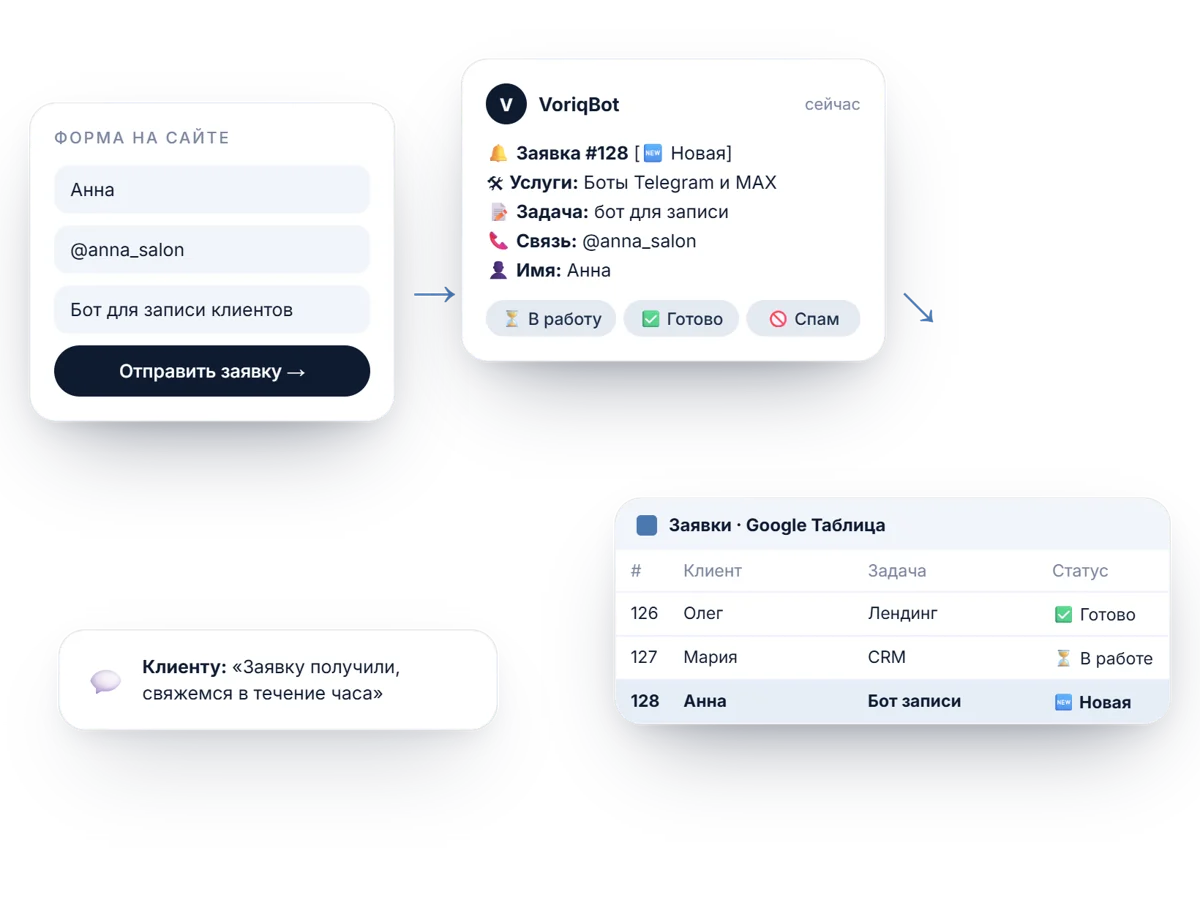
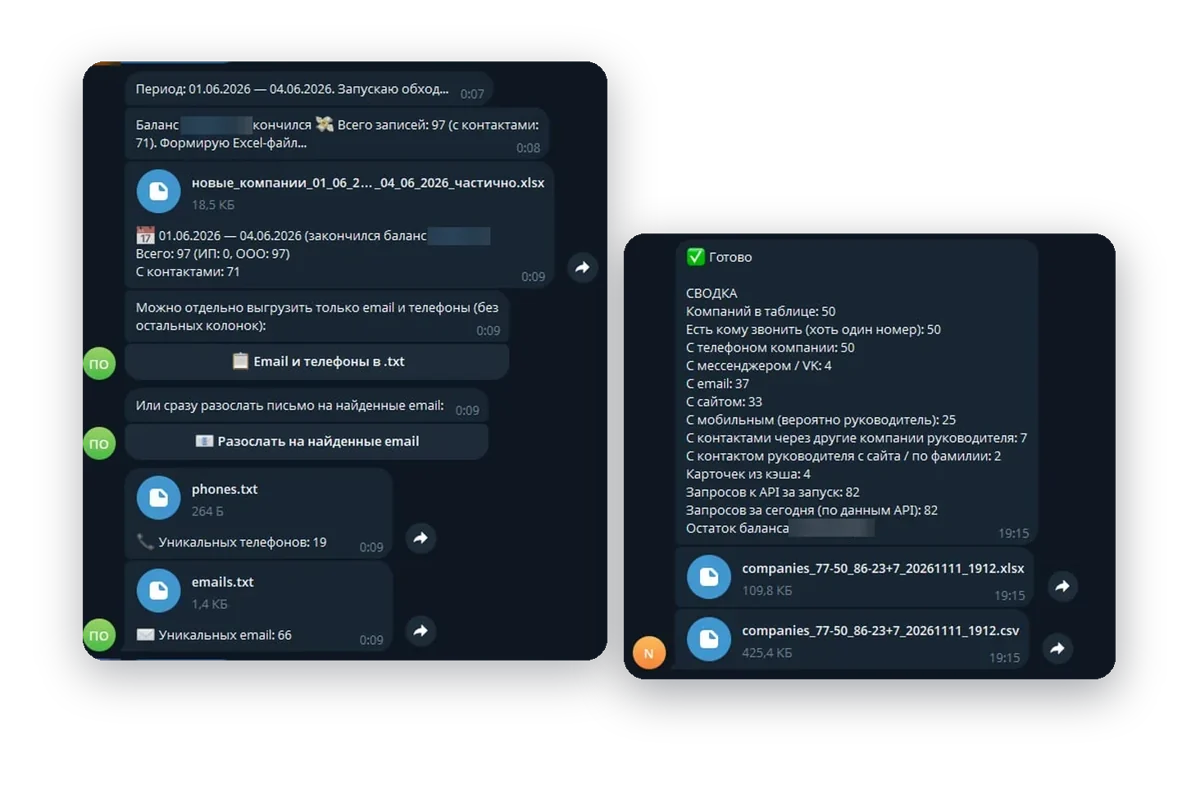
Automation service card: real parser screenshots

diff --git a/404.html b/404.html
@@ -27,7 +27,7 @@
 <link rel="icon" href="/assets/img/favicon-64.png" type="image/png" sizes="64x64">
 <link rel="apple-touch-icon" href="/assets/img/apple-touch-icon.png">
 <link rel="preload" href="/assets/fonts/inter-cyrillic.woff2" as="font" type="font/woff2" crossorigin>
-<link rel="stylesheet" href="/assets/css/style.css?v=b309d9a7">
+<link rel="stylesheet" href="/assets/css/style.css?v=33434da8">
 <script>(function(){var d=document.documentElement;d.classList.add('js');
   if(location.pathname!=='/'&&location.pathname!=='/index.html')return;
   if(!('animate' in Element.prototype))return;
@@ -143,8 +143,8 @@
   <button type="button" id="cookieOk">Понятно</button>
 </div>
 
-<script src="/assets/js/config.js?v=b309d9a7" defer></script>
-<script src="/assets/js/main.js?v=b309d9a7" defer></script>
-<script src="/assets/js/form.js?v=b309d9a7" defer></script>
+<script src="/assets/js/config.js?v=33434da8" defer></script>
+<script src="/assets/js/main.js?v=33434da8" defer></script>
+<script src="/assets/js/form.js?v=33434da8" defer></script>
 </body>
 </html>

diff --git a/avtomatizaciya-biznesa/index.html b/avtomatizaciya-biznesa/index.html
@@ -27,7 +27,7 @@
 <link rel="icon" href="/assets/img/favicon-64.png" type="image/png" sizes="64x64">
 <link rel="apple-touch-icon" href="/assets/img/apple-touch-icon.png">
 <link rel="preload" href="/assets/fonts/inter-cyrillic.woff2" as="font" type="font/woff2" crossorigin>
-<link rel="stylesheet" href="/assets/css/style.css?v=b309d9a7">
+<link rel="stylesheet" href="/assets/css/style.css?v=33434da8">
 <script>(function(){var d=document.documentElement;d.classList.add('js');
   if(location.pathname!=='/'&&location.pathname!=='/index.html')return;
   if(!('animate' in Element.prototype))return;
@@ -195,8 +195,8 @@
   <button type="button" id="cookieOk">Понятно</button>
 </div>
 
-<script src="/assets/js/config.js?v=b309d9a7" defer></script>
-<script src="/assets/js/main.js?v=b309d9a7" defer></script>
-<script src="/assets/js/form.js?v=b309d9a7" defer></script>
+<script src="/assets/js/config.js?v=33434da8" defer></script>
+<script src="/assets/js/main.js?v=33434da8" defer></script>
+<script src="/assets/js/form.js?v=33434da8" defer></script>
 </body>
 </html>

diff --git a/blog/avtomatizaciya-malogo-biznesa/index.html b/blog/avtomatizaciya-malogo-biznesa/index.html
@@ -27,7 +27,7 @@
 <link rel="icon" href="/assets/img/favicon-64.png" type="image/png" sizes="64x64">
 <link rel="apple-touch-icon" href="/assets/img/apple-touch-icon.png">
 <link rel="preload" href="/assets/fonts/inter-cyrillic.woff2" as="font" type="font/woff2" crossorigin>
-<link rel="stylesheet" href="/assets/css/style.css?v=b309d9a7">
+<link rel="stylesheet" href="/assets/css/style.css?v=33434da8">
 <script>(function(){var d=document.documentElement;d.classList.add('js');
   if(location.pathname!=='/'&&location.pathname!=='/index.html')return;
   if(!('animate' in Element.prototype))return;
@@ -176,8 +176,8 @@
   <button type="button" id="cookieOk">Понятно</button>
 </div>
 
-<script src="/assets/js/config.js?v=b309d9a7" defer></script>
-<script src="/assets/js/main.js?v=b309d9a7" defer></script>
-<script src="/assets/js/form.js?v=b309d9a7" defer></script>
+<script src="/assets/js/config.js?v=33434da8" defer></script>
+<script src="/assets/js/main.js?v=33434da8" defer></script>
+<script src="/assets/js/form.js?v=33434da8" defer></script>
 </body>
 </html>

diff --git a/blog/avtomatizaciya-zayavok-sajt-bot-crm/index.html b/blog/avtomatizaciya-zayavok-sajt-bot-crm/index.html
@@ -27,7 +27,7 @@
 <link rel="icon" href="/assets/img/favicon-64.png" type="image/png" sizes="64x64">
 <link rel="apple-touch-icon" href="/assets/img/apple-touch-icon.png">
 <link rel="preload" href="/assets/fonts/inter-cyrillic.woff2" as="font" type="font/woff2" crossorigin>
-<link rel="stylesheet" href="/assets/css/style.css?v=b309d9a7">
+<link rel="stylesheet" href="/assets/css/style.css?v=33434da8">
 <script>(function(){var d=document.documentElement;d.classList.add('js');
   if(location.pathname!=='/'&&location.pathname!=='/index.html')return;
   if(!('animate' in Element.prototype))return;
@@ -173,8 +173,8 @@
   <button type="button" id="cookieOk">Понятно</button>
 </div>
 
-<script src="/assets/js/config.js?v=b309d9a7" defer></script>
-<script src="/assets/js/main.js?v=b309d9a7" defer></script>
-<script src="/assets/js/form.js?v=b309d9a7" defer></script>
+<script src="/assets/js/config.js?v=33434da8" defer></script>
+<script src="/assets/js/main.js?v=33434da8" defer></script>
+<script src="/assets/js/form.js?v=33434da8" defer></script>
 </body>
 </html>

diff --git a/blog/bot-dlya-avtoservisa/index.html b/blog/bot-dlya-avtoservisa/index.html
@@ -27,7 +27,7 @@
 <link rel="icon" href="/assets/img/favicon-64.png" type="image/png" sizes="64x64">
 <link rel="apple-touch-icon" href="/assets/img/apple-touch-icon.png">
 <link rel="preload" href="/assets/fonts/inter-cyrillic.woff2" as="font" type="font/woff2" crossorigin>
-<link rel="stylesheet" href="/assets/css/style.css?v=b309d9a7">
+<link rel="stylesheet" href="/assets/css/style.css?v=33434da8">
 <script>(function(){var d=document.documentElement;d.classList.add('js');
   if(location.pathname!=='/'&&location.pathname!=='/index.html')return;
   if(!('animate' in Element.prototype))return;
@@ -176,8 +176,8 @@
   <button type="button" id="cookieOk">Понятно</button>
 </div>
 
-<script src="/assets/js/config.js?v=b309d9a7" defer></script>
-<script src="/assets/js/main.js?v=b309d9a7" defer></script>
-<script src="/assets/js/form.js?v=b309d9a7" defer></script>
+<script src="/assets/js/config.js?v=33434da8" defer></script>
+<script src="/assets/js/main.js?v=33434da8" defer></script>
+<script src="/assets/js/form.js?v=33434da8" defer></script>
 </body>
 </html>

diff --git a/blog/bot-dlya-salona-krasoty/index.html b/blog/bot-dlya-salona-krasoty/index.html
@@ -27,7 +27,7 @@
 <link rel="icon" href="/assets/img/favicon-64.png" type="image/png" sizes="64x64">
 <link rel="apple-touch-icon" href="/assets/img/apple-touch-icon.png">
 <link rel="preload" href="/assets/fonts/inter-cyrillic.woff2" as="font" type="font/woff2" crossorigin>
-<link rel="stylesheet" href="/assets/css/style.css?v=b309d9a7">
+<link rel="stylesheet" href="/assets/css/style.css?v=33434da8">
 <script>(function(){var d=document.documentElement;d.classList.add('js');
   if(location.pathname!=='/'&&location.pathname!=='/index.html')return;
   if(!('animate' in Element.prototype))return;
@@ -178,8 +178,8 @@
   <button type="button" id="cookieOk">Понятно</button>
 </div>
 
-<script src="/assets/js/config.js?v=b309d9a7" defer></script>
-<script src="/assets/js/main.js?v=b309d9a7" defer></script>
-<script src="/assets/js/form.js?v=b309d9a7" defer></script>
+<script src="/assets/js/config.js?v=33434da8" defer></script>
+<script src="/assets/js/main.js?v=33434da8" defer></script>
+<script src="/assets/js/form.js?v=33434da8" defer></script>
 </body>
 </html>

diff --git a/blog/bot-dlya-zapisi-klientov/index.html b/blog/bot-dlya-zapisi-klientov/index.html
@@ -27,7 +27,7 @@
 <link rel="icon" href="/assets/img/favicon-64.png" type="image/png" sizes="64x64">
 <link rel="apple-touch-icon" href="/assets/img/apple-touch-icon.png">
 <link rel="preload" href="/assets/fonts/inter-cyrillic.woff2" as="font" type="font/woff2" crossorigin>
-<link rel="stylesheet" href="/assets/css/style.css?v=b309d9a7">
+<link rel="stylesheet" href="/assets/css/style.css?v=33434da8">
 <script>(function(){var d=document.documentElement;d.classList.add('js');
   if(location.pathname!=='/'&&location.pathname!=='/index.html')return;
   if(!('animate' in Element.prototype))return;
@@ -174,8 +174,8 @@
   <button type="button" id="cookieOk">Понятно</button>
 </div>
 
-<script src="/assets/js/config.js?v=b309d9a7" defer></script>
-<script src="/assets/js/main.js?v=b309d9a7" defer></script>
-<script src="/assets/js/form.js?v=b309d9a7" defer></script>
+<script src="/assets/js/config.js?v=33434da8" defer></script>
+<script src="/assets/js/main.js?v=33434da8" defer></script>
+<script src="/assets/js/form.js?v=33434da8" defer></script>
 </body>
 </html>

diff --git a/blog/bot-iz-telegram-v-max/index.html b/blog/bot-iz-telegram-v-max/index.html
@@ -27,7 +27,7 @@
 <link rel="icon" href="/assets/img/favicon-64.png" type="image/png" sizes="64x64">
 <link rel="apple-touch-icon" href="/assets/img/apple-touch-icon.png">
 <link rel="preload" href="/assets/fonts/inter-cyrillic.woff2" as="font" type="font/woff2" crossorigin>
-<link rel="stylesheet" href="/assets/css/style.css?v=b309d9a7">
+<link rel="stylesheet" href="/assets/css/style.css?v=33434da8">
 <script>(function(){var d=document.documentElement;d.classList.add('js');
   if(location.pathname!=='/'&&location.pathname!=='/index.html')return;
   if(!('animate' in Element.prototype))return;
@@ -176,8 +176,8 @@
   <button type="button" id="cookieOk">Понятно</button>
 </div>
 
-<script src="/assets/js/config.js?v=b309d9a7" defer></script>
-<script src="/assets/js/main.js?v=b309d9a7" defer></script>
-<script src="/assets/js/form.js?v=b309d9a7" defer></script>
+<script src="/assets/js/config.js?v=33434da8" defer></script>
+<script src="/assets/js/main.js?v=33434da8" defer></script>
+<script src="/assets/js/form.js?v=33434da8" defer></script>
 </body>
 </html>

diff --git a/blog/bot-v-max-dlya-biznesa/index.html b/blog/bot-v-max-dlya-biznesa/index.html
@@ -27,7 +27,7 @@
 <link rel="icon" href="/assets/img/favicon-64.png" type="image/png" sizes="64x64">
 <link rel="apple-touch-icon" href="/assets/img/apple-touch-icon.png">
 <link rel="preload" href="/assets/fonts/inter-cyrillic.woff2" as="font" type="font/woff2" crossorigin>
-<link rel="stylesheet" href="/assets/css/style.css?v=b309d9a7">
+<link rel="stylesheet" href="/assets/css/style.css?v=33434da8">
 <script>(function(){var d=document.documentElement;d.classList.add('js');
   if(location.pathname!=='/'&&location.pathname!=='/index.html')return;
   if(!('animate' in Element.prototype))return;
@@ -176,8 +176,8 @@
   <button type="button" id="cookieOk">Понятно</button>
 </div>
 
-<script src="/assets/js/config.js?v=b309d9a7" defer></script>
-<script src="/assets/js/main.js?v=b309d9a7" defer></script>
-<script src="/assets/js/form.js?v=b309d9a7" defer></script>
+<script src="/assets/js/config.js?v=33434da8" defer></script>
+<script src="/assets/js/main.js?v=33434da8" defer></script>
+<script src="/assets/js/form.js?v=33434da8" defer></script>
 </body>
 </html>

diff --git a/blog/chat-bot-dlya-sajta/index.html b/blog/chat-bot-dlya-sajta/index.html
@@ -27,7 +27,7 @@
 <link rel="icon" href="/assets/img/favicon-64.png" type="image/png" sizes="64x64">
 <link rel="apple-touch-icon" href="/assets/img/apple-touch-icon.png">
 <link rel="preload" href="/assets/fonts/inter-cyrillic.woff2" as="font" type="font/woff2" crossorigin>
-<link rel="stylesheet" href="/assets/css/style.css?v=b309d9a7">
+<link rel="stylesheet" href="/assets/css/style.css?v=33434da8">
 <script>(function(){var d=document.documentElement;d.classList.add('js');
   if(location.pathname!=='/'&&location.pathname!=='/index.html')return;
   if(!('animate' in Element.prototype))return;
@@ -176,8 +176,8 @@
   <button type="button" id="cookieOk">Понятно</button>
 </div>
 
-<script src="/assets/js/config.js?v=b309d9a7" defer></script>
-<script src="/assets/js/main.js?v=b309d9a7" defer></script>
-<script src="/assets/js/form.js?v=b309d9a7" defer></script>
+<script src="/assets/js/config.js?v=33434da8" defer></script>
+<script src="/assets/js/main.js?v=33434da8" defer></script>
+<script src="/assets/js/form.js?v=33434da8" defer></script>
 </body>
 </html>

diff --git a/blog/ii-agent-dlya-biznesa/index.html b/blog/ii-agent-dlya-biznesa/index.html
@@ -27,7 +27,7 @@
 <link rel="icon" href="/assets/img/favicon-64.png" type="image/png" sizes="64x64">
 <link rel="apple-touch-icon" href="/assets/img/apple-touch-icon.png">
 <link rel="preload" href="/assets/fonts/inter-cyrillic.woff2" as="font" type="font/woff2" crossorigin>
-<link rel="stylesheet" href="/assets/css/style.css?v=b309d9a7">
+<link rel="stylesheet" href="/assets/css/style.css?v=33434da8">
 <script>(function(){var d=document.documentElement;d.classList.add('js');
   if(location.pathname!=='/'&&location.pathname!=='/index.html')return;
   if(!('animate' in Element.prototype))return;
@@ -173,8 +173,8 @@
   <button type="button" id="cookieOk">Понятно</button>
 </div>
 
-<script src="/assets/js/config.js?v=b309d9a7" defer></script>
-<script src="/assets/js/main.js?v=b309d9a7" defer></script>
-<script src="/assets/js/form.js?v=b309d9a7" defer></script>
+<script src="/assets/js/config.js?v=33434da8" defer></script>
+<script src="/assets/js/main.js?v=33434da8" defer></script>
+<script src="/assets/js/form.js?v=33434da8" defer></script>
 </body>
 </html>

diff --git a/blog/ii-konsultant-na-sajt/index.html b/blog/ii-konsultant-na-sajt/index.html
@@ -27,7 +27,7 @@
 <link rel="icon" href="/assets/img/favicon-64.png" type="image/png" sizes="64x64">
 <link rel="apple-touch-icon" href="/assets/img/apple-touch-icon.png">
 <link rel="preload" href="/assets/fonts/inter-cyrillic.woff2" as="font" type="font/woff2" crossorigin>
-<link rel="stylesheet" href="/assets/css/style.css?v=b309d9a7">
+<link rel="stylesheet" href="/assets/css/style.css?v=33434da8">
 <script>(function(){var d=document.documentElement;d.classList.add('js');
   if(location.pathname!=='/'&&location.pathname!=='/index.html')return;
   if(!('animate' in Element.prototype))return;
@@ -175,8 +175,8 @@
   <button type="button" id="cookieOk">Понятно</button>
 </div>
 
-<script src="/assets/js/config.js?v=b309d9a7" defer></script>
-<script src="/assets/js/main.js?v=b309d9a7" defer></script>
-<script src="/assets/js/form.js?v=b309d9a7" defer></script>
+<script src="/assets/js/config.js?v=33434da8" defer></script>
+<script src="/assets/js/main.js?v=33434da8" defer></script>
+<script src="/assets/js/form.js?v=33434da8" defer></script>
 </body>
 </html>
